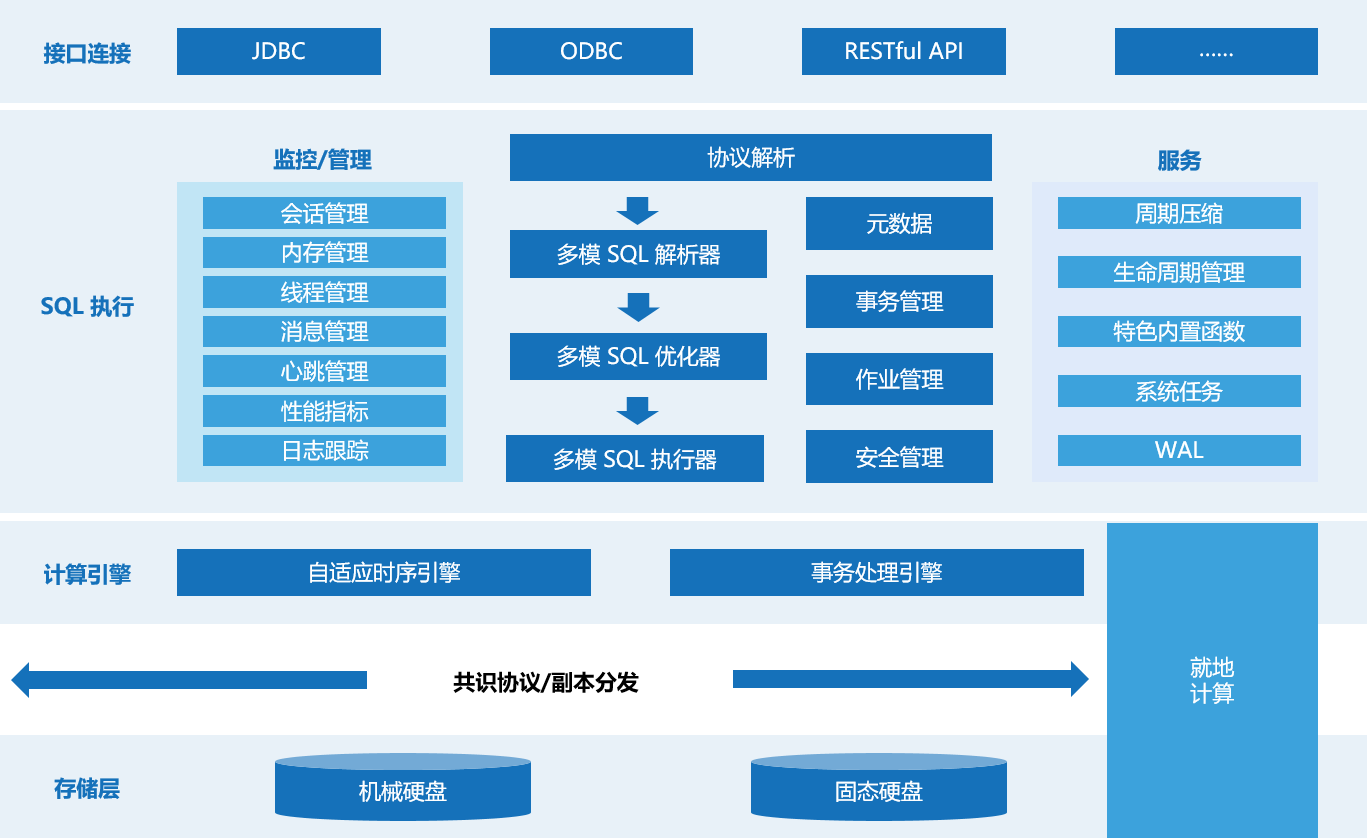
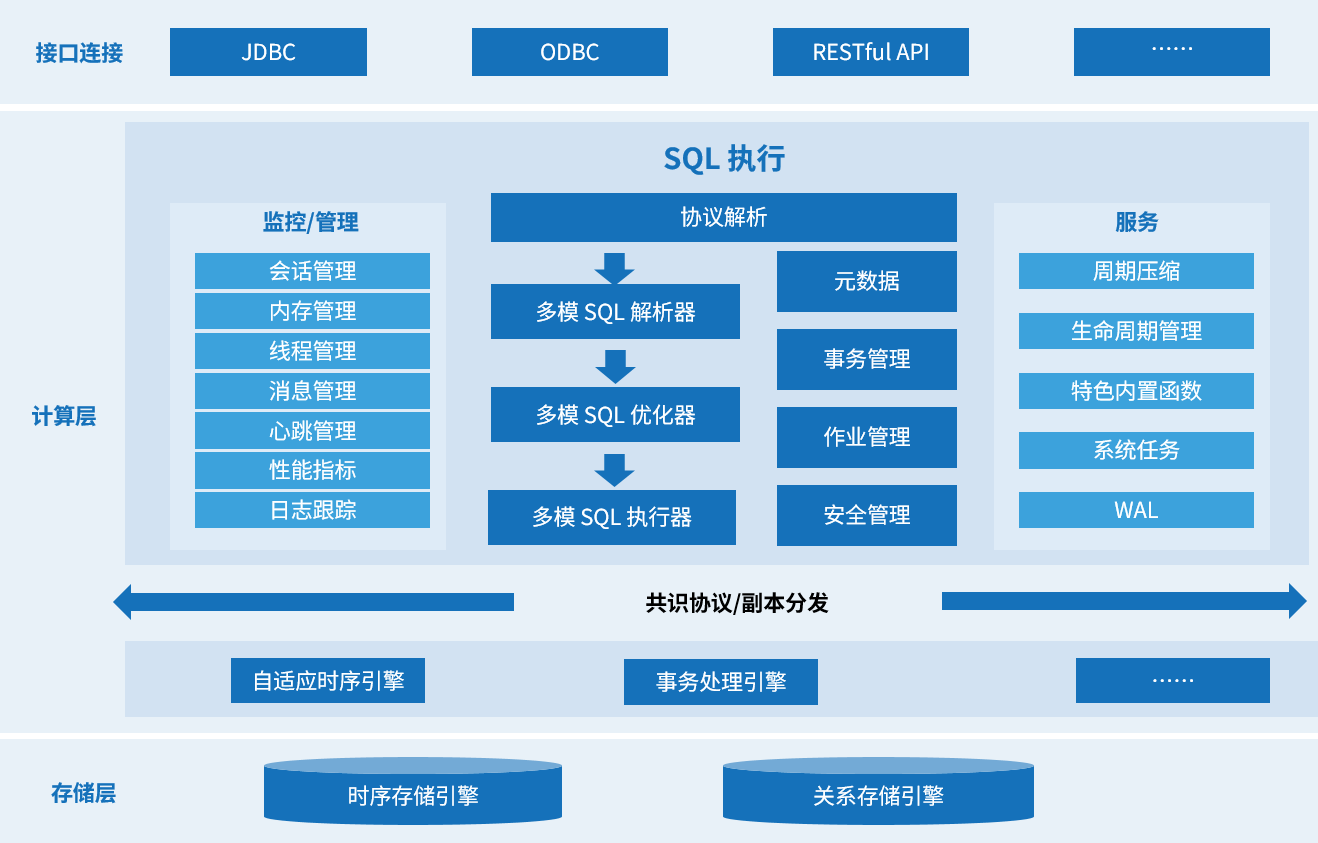
commit-message: add en updates for release notes

diff --git a/en/release-notes/release-note.md b/en/release-notes/release-note.md
@@ -1,0 +1,50 @@
+---
+title: 2.2.2 Release Notes
+id: 2.2.2-release-notes
+---
+
+# KWDB 2.2.2 Release Notes
+
+KWDB is a distributed, multi-model database, designed for AIoT scenarios. It seamlessly integrates time-series and relational databases within the same instance, enabling efficient multi-model data processing. With high-performance time-series capabilities, it supports connections for tens of millions of devices, real-time insertion of millions of records within seconds, and query responses in just a few seconds for hundreds of millions of records. Built for stability, security, high availability, and easy maintenance, KWDB is ideal for industrial IoT, digital energy, connected vehicles, and smart industries, providing a unified platform for data storage, management, and analysis.
+
+KWDB 2.2.2 retains the core features of previous versions while introducing enhancements in tag index management and distributed high availability architecture.
+
+## Version Details
+
+| Version   | Release Date   |
+| :------- | :--------- |
+| 2.2.2    | 2025.07.21 |
+
+## Bug Fixes
+
+- **Cluster Management**  
+  - Fixed an issue that caused upgrade failures in single-replica clusters
+
+- **Query Functions**  
+  - Resolved inconsistencies between direct table write statistics and `time_bucket_gapfill()` counts in subqueries  
+  - Corrected inaccurate results from the `count_window()` function  
+  - Fixed query errors when combining the `count()` and `coalesce()` functions  
+  - Resolved discrepancies in `current_time()` function results between time-series and relational engines  
+  - Fixed incorrect results when using the `twa()` function within subqueries
+
+- **Date Handling**  
+  - Addressed inconsistencies BCE date logic under different `WHERE` clause conditions
+
+- **Data Operations**  
+  - Fixed an issue that prevented deletion of time-series data in `PREPARE` mode
+
+- **Performance Optimizations**  
+  - Improved count performance following pipeline test data writes  
+  - Enhanced query performance for TSBS `high-cpu-1`  
+  - Optimized query performance for TSBS `double-groupby-1`
+
+## Upgrade Notes
+
+KWDB 2.2.2 supports the following upgrade methods:
+
+- **Multi-replica clusters**: online upgrade from 2.2.x.
+- **Single-replica clusters**: offline upgrade from 2.2.x.
+- **Standalone deployments**: offline upgrade from 2.2.x.
+- **KWDB 2.0.x and 2.1.0**: data export and import.
+
+For instructions, see [Database Upgrade](../db-operation/db-upgrade.md), [Data Export](../db-administration/import-export-data/export-data.md), and [Data Import](../db-administration/import-export-data/import-data.md).

diff --git a/en/release-notes/2.2.1.md b/en/release-notes/2.2.1.md
@@ -1,0 +1,42 @@
+---
+title: 2.2.1 Release Notes
+id: 2.2.1-release-notes
+---
+
+# KWDB 2.2.1 Release Notes
+
+KWDB is a distributed, multi-model database, designed for AIoT scenarios. It seamlessly integrates time-series and relational databases within the same instance, enabling efficient multi-model data processing. With high-performance time-series capabilities, it supports connections for tens of millions of devices, real-time insertion of millions of records within seconds, and query responses in just a few seconds for hundreds of millions of records. Built for stability, security, high availability, and easy maintenance, KWDB is ideal for industrial IoT, digital energy, connected vehicles, and smart industries, providing a unified platform for data storage, management, and analysis.
+
+KWDB 2.2.1 retains the core features of previous versions while introducing enhancements in tag index management and distributed high availability architecture.
+
+## Version Details
+
+| Version   | Release Date   |
+| :------- | :--------- |
+| 2.2.1    | 2025.06.13 |
+
+## New Features
+
+### DDL Operations
+
+- **Tag Index Management**:
+  - Supports adding or removing indexes for one or multiple regular tags in a time-series table.
+  - Enables index queries, allowing users to view indexes for a specific table.
+
+### Distributed High Availability
+
+- **Multi-Replica Cluster**: The system continues to support DDL, DML, and DQL operations under the following conditions:
+  - Node failures
+  - Node recovery
+  - Single-node upgrade
+
+## Upgrade Notes
+
+KWDB 2.2.1 supports the following upgrade methods:
+
+- **Multi-replica clusters**: online upgrade from 2.2.0.
+- **Single-replica clusters**: offline upgrade from 2.2.0.
+- **Standalone deployments**: offline upgrade from 2.2.0.
+- **KWDB 2.0.x and 2.1.0**: data export and import.
+
+For instructions, see [Database Upgrade](../db-operation/db-upgrade.md), [Data Export](../db-administration/import-export-data/export-data.md), and [Data Import](../db-administration/import-export-data/import-data.md).

diff --git a/about-kwdb/product-architecture.md b/about-kwdb/product-architecture.md
@@ -7,7 +7,7 @@ id: product-architecture
 
 相比传统的数据库，KWDB 提供多模数据管理能力，支持不同数据模型的统一存储，助力企业跨部门、跨业务统一管理数据，实现多业务数据融合，支撑多样化的应用服务。KWDB 的产品架构如下图所示：
 
-![](../static/about-kaiwudb/kwdb-architecture.png)
+<img src="../static/about-kaiwudb/kwdb-architecture.png" alt="KWDB 产品架构" style="max-width: 67%; height: auto;" />
 
 - **数据存储**：采用行列混存架构，支持固态硬盘、机械硬盘等各类存储设备。
 - **数据副本**：采用 Shared Nothing 架构，基于 Raft 协议的高可用、多副本架构，支持数据均衡及容错，保障数据服务不中断。

diff --git a/en/about-kwdb/product-architecture.md b/en/about-kwdb/product-architecture.md
@@ -9,7 +9,7 @@ KWDB takes a different approach from traditional databases by offering multi-mod
 
 The architecture of KWDB is illustrated below:
 
-![](../static/about-kaiwudb/kwdb-architecture.png)
+<img src="../static/about-kaiwudb/kwdb-architecture.png" alt="KWDB Architecture" style="max-width:80%; height:auto;" />
 
 - **Data Storage**: KWDB uses a hybrid storage system that combines the best of row and column storage, working with both SSDs and HDDs to give you flexibility in how your data is stored.
 
